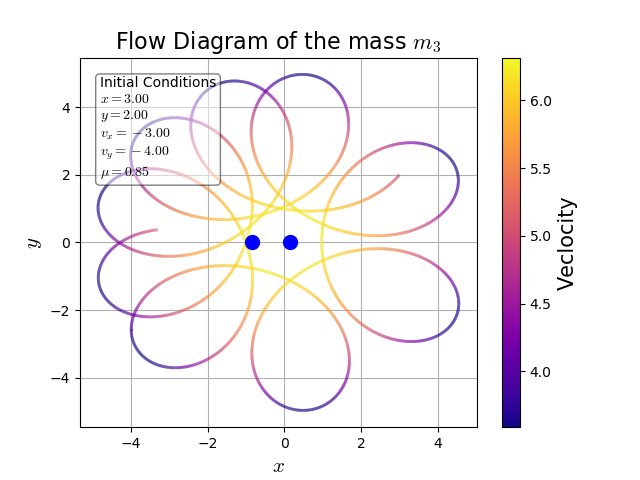
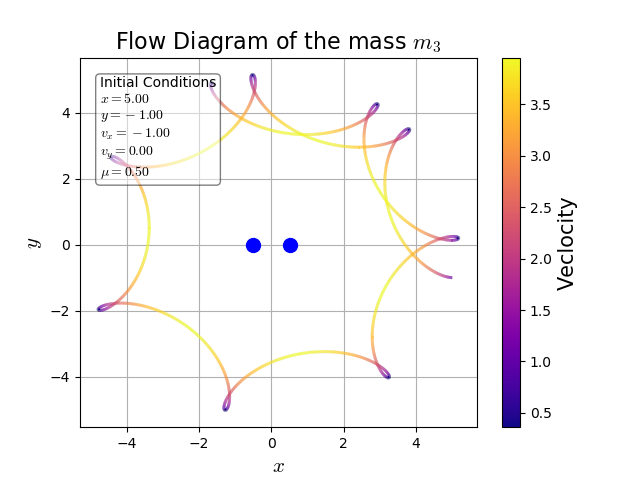
Added GUI Plotting funcionality

diff --git a/Code/Lagrange_GUI.py b/Code/Lagrange_GUI.py
@@ -29,44 +29,69 @@ class GUI:
         self.initialLabel.grid(column=0, row=1, columnspan=2, sticky=W)
 
         self.xLabel = Label(self.inputFrame, text="x:")
-        self.xLabel.grid(column=0, row=2, padx=(0, 0))
+        self.xLabel.grid(column=0, row=2, padx=(0, 0), pady=(0,5))
 
         global xVal
         xVal = StringVar()
-        self.xVal = ttk.Entry(self.inputFrame, width=15, textvariable=xVal)
-        self.xVal.grid(column=1, row=2, padx=(0, 0), sticky=W)
+        self.xVal = ttk.Entry(self.inputFrame, width=10, textvariable=xVal)
+        self.xVal.grid(column=1, row=2, padx=(0, 0), sticky=W, pady=(0,5))
+
+        global xHold
+        xHold = IntVar()
+        self.xHold = ttk.Checkbutton(self.inputFrame, text="Hold", variable=xHold)
+        self.xHold.grid(column=1, row=2, padx=(50, 0), pady=(0, 5))
 
         self.yLabel = Label(self.inputFrame, text="y:")
-        self.yLabel.grid(column=0, row=3, padx=(0, 0))
+        self.yLabel.grid(column=0, row=3, padx=(0, 0), pady=(0,5))
 
         global yVal
         yVal = StringVar()
-        self.yVal = ttk.Entry(self.inputFrame, width=15, textvariable=yVal)
-        self.yVal.grid(column=1, row=3, padx=(0, 0), sticky=W, pady=(5,5))
+        self.yVal = ttk.Entry(self.inputFrame, width=10, textvariable=yVal)
+        self.yVal.grid(column=1, row=3, padx=(0, 0), sticky=W, pady=(0,5))
+
+        global yHold
+        yHold = IntVar()
+        self.yHold = ttk.Checkbutton(self.inputFrame, text="Hold", variable=yHold)
+        self.yHold.grid(column=1, row=3, padx=(50, 0), pady=(0, 5))
 
         self.vxLabel = Label(self.inputFrame, text="vx:")
         self.vxLabel.grid(column=0, row=4, padx=(0, 0), pady=(0,5))
 
         global vxVal
         vxVal = StringVar()
-        self.vxVal = ttk.Entry(self.inputFrame, width=15, textvariable=vxVal)
+        self.vxVal = ttk.Entry(self.inputFrame, width=10, textvariable=vxVal)
         self.vxVal.grid(column=1, row=4, padx=(0, 0), sticky=W, pady=(0,5))
+
+        global vxHold
+        vxHold = IntVar()
+        self.vxHold = ttk.Checkbutton(self.inputFrame, text="Hold", variable=vxHold)
+        self.vxHold.grid(column=1, row=4, padx=(50, 0), pady=(0, 5))
 
         self.vyLabel = Label(self.inputFrame, text="vy:")
         self.vyLabel.grid(column=0, row=5, padx=(0, 0), pady=(0,5))
 
         global vyVal
         vyVal = StringVar()
-        self.vyVal = ttk.Entry(self.inputFrame, width=15, textvariable=vyVal)
+        self.vyVal = ttk.Entry(self.inputFrame, width=10, textvariable=vyVal)
         self.vyVal.grid(column=1, row=5, padx=(0, 0), sticky=W, pady=(0,5))
+
+        global vyHold
+        vyHold = IntVar()
+        self.vyHold = ttk.Checkbutton(self.inputFrame, text="Hold", variable=vyHold)
+        self.vyHold.grid(column=1, row=5, padx=(50, 0), pady=(0, 5))
 
         self.muLabel = Label(self.inputFrame, text="μ:")
         self.muLabel.grid(column=0, row=6, padx=(0, 0), pady=(0, 5))
 
         global muVal
         muVal = StringVar()
-        self.muVal = ttk.Entry(self.inputFrame, width=15, textvariable=muVal)
+        self.muVal = ttk.Entry(self.inputFrame, width=10, textvariable=muVal)
         self.muVal.grid(column=1, row=6, padx=(0, 0), sticky=W, pady=(0, 5))
+
+        global muHold
+        muHold = IntVar()
+        self.muHold = ttk.Checkbutton(self.inputFrame, text="Hold", variable=muHold)
+        self.muHold.grid(column=1, row=6, padx=(50, 0), pady=(0, 5))
 
         self.PlotNumLabel = Label(self.inputFrame, text="Plots:")
         self.PlotNumLabel.grid(column=0, row=7, padx=(0, 0), pady=(0, 5))
@@ -91,15 +116,120 @@ class GUI:
         self.plotValuesButton.grid(column=1, row=9, pady=(1,0))
 
 
-    def PlotValues(self):
-        pass
-
     def PlotRandom(self):
-        pass
+        try:
+            for plot in range(1, int(self.plotNum.get()) + 1):
+                if xHold.get() == 0:
+                    x = random.randint(-5, 5)
+                else:
+                    x = float(self.xVal.get())
 
+                if yHold.get() == 0:
+                    y = random.randint(-5, 5)
+                else:
+                    y = float(self.yVal.get())
+
+                if vxHold.get() == 0:
+                    vx = random.randint(-5, 5)
+                else:
+                    vx = float(self.vxVal.get())
+
+                if vyHold.get() == 0:
+                    vy = random.randint(-5, 5)
+                else:
+                    vy = float(self.vyVal.get())
+
+                if muHold.get() == 0:
+                    mu = round(random.random(), 2)
+                else:
+                    mu = float(self.muVal.get())
+
+                LagrangeFlowPlot([x, y, vx, vy], mu, plotVel.get())
+                plt.savefig("Plots\\" + str(plot) + ".png")
+                print("Plot", str(plot), "saved")
+
+        except ValueError:
+            tkinter.messagebox.showerror("Value Error",
+                                         "An non-integer or float value as entered . Please only use values that are integers or floats.")
+
+
+    def PlotValues(self):
+        try:
+            x = int(self.xVal.get())
+            y = int(self.yVal.get())
+            vx = int(self.vxVal.get())
+            vy = int(self.vyVal.get())
+            mu = int(self.muVal.get())
+
+            filePath = asksaveasfilename(title="Save Plot", filetypes=(("PNG", "*.png"), ("All files", "*")))
+            LagrangeFlowPlot([x, y, vx, vy], mu, plotVel.get())
+            plt.savefig(str(filePath) + ".png")
+            print("Plot saved")
+
+        except ValueError:
+            tkinter.messagebox.showerror("Value Error",
+                                         "An non-integer or float value as entered . Please only use values that are integers or floats.")
 
 def ColourConvert(rgb):
     return "#%02x%02x%02x" % (int(rgb[0]), int(rgb[1]), int(rgb[2]))
+
+def LagrangeFlowPlot(initial, mu, velocity):
+    #Data for plotting
+    t=np.arange(0.0,20.0,0.001)  # time steps
+
+    def motion(state ,t):
+        x, y, vx, vy = state  # unpack state vector
+        xdot = vx
+        ydot = vy
+        vxdot = -((1-mu)*(x+mu)/((x+mu)**2 + y**2)**(3/2)) - (mu*(x+mu-1))/(((x+mu-1)**2 + y**2)**(3/2)) - x + 2*vy
+        vydot = -((y*(1-mu)/(((x+mu)**2 + y**2)**(3/2)))) - ((y*mu)/(((x+mu-1)**2 + y**2)**(3/2))) - y - 2*vx
+        return xdot, ydot, vxdot, vydot
+
+    fig, ax = plt.subplots()
+    ax.grid()
+
+    #Plot Flow Lines:
+    states=odeint(motion,initial,t)
+
+    if velocity == 1:
+        #Plot with velocity gradient:
+        vel = np.sqrt(np.square(states[:,2]) + np.square(states[:,3]))
+        points = np.array([states[:,0], states[:,1]]).T.reshape(-1, 1, 2)
+        segments = np.concatenate([points[:-1], points[1:]], axis=1)
+
+        norm = plt.Normalize(vel.min(), vel.max())
+        lc = LineCollection(segments, cmap='plasma', norm=norm)
+        lc.set_array(vel)
+        lc.set_linewidth(2)
+        line = ax.add_collection(lc)
+        cbar = fig.colorbar(line, ax=ax)
+        cbar.ax.set_ylabel('Veclocity', rotation='vertical', fontsize=15)
+
+    else:
+        #Can be used to plot if not using velcoity gradient:
+        flow=ax.plot(states[:,0],states[:,1])[0]
+
+
+    #Plot Other Masses:
+    ax.plot(-mu,0,'bo',markersize=10)
+    ax.plot(1 - mu,0,'bo',markersize=10)
+
+    ax.set_title(r"Flow Diagram of the mass $m_3$",fontsize=16)
+    ax.set_xlabel("$x$",fontsize=15)
+    ax.set_ylabel("$y$",fontsize=15)
+
+    textstr = '\n'.join((
+        r'Initial Conditions',
+        r'$x=%.2f$' % (initial[0],),
+        r'$y=%.2f$' % (initial[1],),
+        r'$v_x=%.2f$' % (initial[2],),
+        r'$v_y=%.2f$' % (initial[3],),
+        r'$\mu=%.2f$' % (mu,)))
+
+    props = dict(boxstyle='round', facecolor='white', alpha=0.5)
+
+    ax.text(0.05, 0.95, textstr, transform=ax.transAxes,
+            verticalalignment='top', bbox=props)
 
 root = Tk()
 
